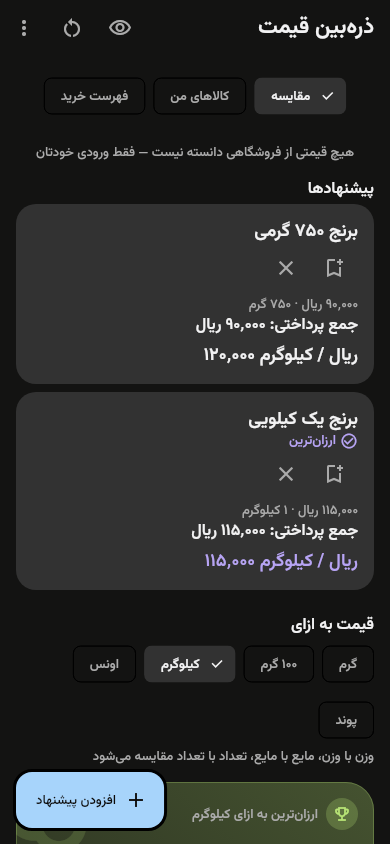
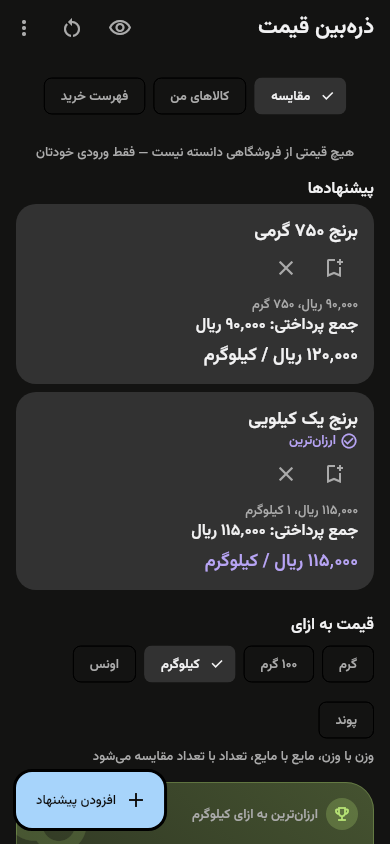
2.8.4: Price Lens reviewed and available; release notes and guide for Words, Expenses and Price Lens
Price Lens: the unit price follows the page direction, Persian decimals use
٫ and facts on one line are joined with ، in Persian; off the summary
pending list. Every add-on is now available; tests that needed a Soon one
use an unshipped id or the desktop override.

Claude-Session: https://claude.ai/code/session_01Hj5WohDj1r2cz24gKXJdh2

diff --git a/apps/client/lib/modules/price_lens/strings_fa.dart b/apps/client/lib/modules/price_lens/strings_fa.dart
@@ -95,7 +95,7 @@ const _lensfa = <String, String>{
   'commonUnitLabel': 'قیمت به ازای',
   'resultTitle': 'ارزانترین به ازای {unit}',
   'bestLabel': 'ارزانترین',
-  'unitPriceOf': '{label} · {price} به ازای {unit}',
+  'unitPriceOf': '{label}، {price} به ازای {unit}',
   'savingsVsBest': '{extra} بیشتر از ارزانترین',
   'tieNote': '{n} پیشنهاد در پایینترین قیمت برابرند',
   'notComparable': 'قابل مقایسه نیست — یکاهای متفاوت',
@@ -123,7 +123,7 @@ const _lensfa = <String, String>{
   'memoryHint':
       'فقط قیمتهایی که خودتان با تاریخشان وارد کردهاید — نه نرخ بازار',
   'saveToMemory': 'یاد این قیمت باش',
-  'memoryOf': '{label} · {price} در {date}',
+  'memoryOf': '{label}، {price} در {date}',
   'memorySame': 'برای همین، در {date} مبلغ {price} وارد کردهاید',
   'memoryHigher': 'الان {diff} بیشتر از چیزی است که در {date} وارد کردید',
   'memoryLower': 'الان {diff} کمتر از چیزی است که در {date} وارد کردید',
@@ -140,7 +140,7 @@ const _lensfa = <String, String>{
   'deleteSavedTitle': 'این مقایسه حذف شود؟',
   'savedDeleteBody': 'به ماشینحساب و حافظهی قیمت کاری ندارد.',
   'savedDeleted': 'حذف شد',
-  'comparisonOf': '{n} پیشنهاد · {date}',
+  'comparisonOf': '{n} پیشنهاد، {date}',
   'replaceOffersTitle': 'پیشنهادهای فعلی جایگزین شوند؟',
   'replaceOffersBody':
       'پیشنهادهای ماشینحساب با این مقایسهی ذخیرهشده جایگزین میشوند.',

diff --git a/apps/client/test/module_preview_test.dart b/apps/client/test/module_preview_test.dart
@@ -24,7 +24,7 @@ void main() {
   );
   tearDown(() => harness.dispose());
 
-  test('fifteen add-ons are back, the other one is Soon; their code '
+  test('all sixteen add-ons are available since 2.8.4; their code '
       'stays', () {
     // Cycle; Pause, which is first-party; and the add-ons reviewed and turned
     // on since 2.4.0 — five more of them in 2.8.1.
@@ -45,11 +45,12 @@ void main() {
       'cheques',
       'maintenance',
       'expenses',
+      'price_lens',
     };
     expect(nexAvailableModuleIds, {'cycle', 'pause', ...back});
     expect(reviewed, back);
     expect(paused, moduleIds.difference(back));
-    // The existing add-ons plus the new Cheques module, still Soon.
+    expect(paused, isEmpty);
     expect(
       moduleIds,
       containsAll(['prompt_studio', 'security_tools', 'cheques']),
@@ -60,12 +61,13 @@ void main() {
   test(
     'a paused add-on keeps its installation choice and is not active',
     () async {
-      await harness.preferences.setModuleOn('price_lens', true);
-      expect(harness.preferences.isModuleOn('price_lens'), isTrue);
+      // No add-on is Soon since 2.8.4: one a later build has not shipped.
+      await harness.preferences.setModuleOn('future_module', true);
+      expect(harness.preferences.isModuleOn('future_module'), isTrue);
       expect(nexModulesOn(harness.preferences), isEmpty);
       final reloaded = await NexPreferences.load();
       addTearDown(reloaded.dispose);
-      expect(reloaded.isModuleOn('price_lens'), isTrue);
+      expect(reloaded.isModuleOn('future_module'), isTrue);
     },
   );
 

diff --git a/apps/client/test/module_infrastructure_test.dart b/apps/client/test/module_infrastructure_test.dart
@@ -1,3 +1,4 @@
+import 'package:flutter/foundation.dart';
 import 'package:flutter/material.dart';
 import 'package:flutter_test/flutter_test.dart';
 import 'package:nex_client/modules/habits/module.dart';
@@ -30,20 +31,23 @@ void main() {
     test('active means available and added, and nothing else does', () async {
       final prefs = harness.preferences;
       expect(nexModuleActive('habits', prefs), isFalse);
-      expect(
-        nexModuleActive('price_lens', prefs),
-        isFalse,
-        reason: 'still Soon',
-      );
       expect(nexModuleActive('no-such-module', prefs), isFalse);
       await prefs.setModuleOn('habits', true);
-      await prefs.setModuleOn('price_lens', true);
+      await prefs.setModuleOn('no-such-module', true);
       expect(nexModuleActive('habits', prefs), isTrue);
-      expect(
-        nexModuleActive('price_lens', prefs),
-        isFalse,
-        reason: 'a saved choice is not availability',
-      );
+      expect(nexModuleActive('no-such-module', prefs), isFalse);
+      // Every add-on is available on a phone since 2.8.4; a desktop has
+      // none, so there a saved choice is still not availability.
+      debugDefaultTargetPlatformOverride = TargetPlatform.linux;
+      try {
+        expect(
+          nexModuleActive('habits', prefs),
+          isFalse,
+          reason: 'a saved choice is not availability',
+        );
+      } finally {
+        debugDefaultTargetPlatformOverride = null;
+      }
     });
   });
 

diff --git a/apps/client/lib/modules/price_lens/lens_widgets.dart b/apps/client/lib/modules/price_lens/lens_widgets.dart
@@ -8,6 +8,7 @@ import 'money_render.dart';
 import 'money.dart' show persianLocal;
 import 'privacy.dart';
 import 'options.dart';
+import 'price_lens_common.dart' show lensSep;
 import 'rational.dart';
 import 'strings.dart';
 import 'units.dart';
@@ -157,7 +158,7 @@ class LensOptionCard extends StatelessWidget {
                           Fraction(option.shippingMinor!),
                           option.currency,
                         ),
-                    ].join(' · '),
+                    ].join(lensSep(context)),
                     style: theme.textTheme.bodySmall?.copyWith(
                       color: scheme.onSurfaceVariant,
                     ),
@@ -178,7 +179,6 @@ class LensOptionCard extends StatelessWidget {
                     const SizedBox(height: NexSpacing.sm),
                     Text(
                       '${lensMoney(context, unitPrice, option.currency)}${commonUnitKey == null ? '' : ' / ${unitWordOf(context, commonUnitKey!)}'}',
-                      textDirection: TextDirection.ltr,
                       style: theme.textTheme.titleMedium?.copyWith(
                         color: (result?.isBest ?? false)
                             ? hue

diff --git a/apps/client/lib/modules/price_lens/product_actions.dart b/apps/client/lib/modules/price_lens/product_actions.dart
@@ -27,8 +27,12 @@ String memoryQuantity(
     priceUnitOf(m.unitKey)!,
     unit,
   )!;
-  final raw = amount.toDecimalString(digits: 6);
-  return '${nexDigits(raw, persian: NexModuleStrings.persian(context))} ${priceLensStrings(context, 'unit${unit.key[0].toUpperCase()}${unit.key.substring(1)}')}';
+  final persian = NexModuleStrings.persian(context);
+  // «۰٫۷۵ کیلوگرم» in Persian, the decimal separator included (2.8.4).
+  final raw = amount
+      .toDecimalString(digits: 6)
+      .replaceAll('.', persian ? '٫' : '.');
+  return '${nexDigits(raw, persian: persian)} ${priceLensStrings(context, 'unit${unit.key[0].toUpperCase()}${unit.key.substring(1)}')}';
 }
 
 String memoryChangeLabel(
@@ -162,7 +166,7 @@ String productShareText(BuildContext context, LensProduct product) {
         lensMoney(context, m.exactPaid, m.currency),
         memoryQuantity(context, m),
         if (m.shop.isNotEmpty) m.shop,
-      ].join(' · '),
+      ].join(lensSep(context)),
     s(context, 'estimateOnly'),
   ].join('\n');
 }

diff --git a/apps/client/lib/modules/price_lens/lens_result_panel.dart b/apps/client/lib/modules/price_lens/lens_result_panel.dart
@@ -164,7 +164,7 @@ class LensResultPanel extends StatelessWidget {
         if (result.unitPriceMinor case final price?)
           '${result.isBest ? '✓ ' : '• '}${s(context, 'unitPriceOf', {'label': result.option.label, 'price': lensMoney(context, price, result.option.currency), 'unit': unitWord})}'
         else
-          '• ${result.option.label} · ${s(context, 'notComparable')}',
+          '• ${result.option.label}${lensSep(context)}${s(context, 'notComparable')}',
     ];
     return lines.join('\n');
   }
@@ -221,7 +221,7 @@ class _ResultRow extends StatelessWidget {
       return Padding(
         padding: const EdgeInsets.symmetric(vertical: NexSpacing.xs),
         child: Text(
-          '${result.option.label} · ${s(context, 'notComparable')}',
+          '${result.option.label}${lensSep(context)}${s(context, 'notComparable')}',
           style: theme.textTheme.bodyMedium,
         ),
       );

diff --git a/apps/client/test/modules/price_lens/screen_cases_2.dart b/apps/client/test/modules/price_lens/screen_cases_2.dart
@@ -309,8 +309,8 @@ void _screenCases2() {
       );
       await addOption(tester, label: 'برنج درشت', price: '115', quantity: '1');
       expect(find.text('ارزانترین به ازای کیلوگرم'), findsOneWidget);
-      expect(find.text('برنج · ۱۲۰ ریال به ازای کیلوگرم'), findsOneWidget);
-      expect(find.text('برنج درشت · ۱۱۵ ریال به ازای کیلوگرم'), findsOneWidget);
+      expect(find.text('برنج، ۱۲۰ ریال به ازای کیلوگرم'), findsOneWidget);
+      expect(find.text('برنج درشت، ۱۱۵ ریال به ازای کیلوگرم'), findsOneWidget);
       expect(find.text('۵ ریال بیشتر از ارزانترین'), findsOneWidget);
       expect(find.text('ارزانترین'), findsOneWidget);
     });

diff --git a/apps/client/lib/modules/price_lens/money.dart b/apps/client/lib/modules/price_lens/money.dart
@@ -128,7 +128,7 @@ String formatPriceNumber(int minor, int exponent, {required bool persian}) {
         .replaceAll(RegExp(r'0+$'), '');
     text = fraction.isEmpty
         ? whole
-        : '$whole.${persian ? persianLocal(fraction) : fraction}';
+        : '$whole${persian ? '٫${persianLocal(fraction)}' : '.$fraction'}';
   }
   return negative ? '−$text' : text;
 }
@@ -159,7 +159,9 @@ String groupLocal(String digits, bool persian) {
   return persian ? persianLocal(reversed) : reversed;
 }
 
-String persianLocal(String text) => nexDigits(text, persian: true);
+/// Persian digits, and the Persian decimal separator «٫» (2.8.4).
+String persianLocal(String text) =>
+    nexDigits(text, persian: true).replaceAll('.', '٫');
 
 Map<String, Object?> priceMetadata(String code) => {
   'currency_code': code,

diff --git a/apps/client/lib/modules/price_lens/price_lens_common.dart b/apps/client/lib/modules/price_lens/price_lens_common.dart
@@ -202,6 +202,12 @@ Future<void> confirmPriceLensDiscard(BuildContext context) async {
 
 /// "2026/10/13" — "1405/07/20" where the app is set to Jalali — in the
 /// locale's own digits, through the shared label.
+/// What sits between two facts on one line: «،» in Persian, where a
+/// middle dot beside a number reads as the Persian zero («۱ · کیلو» looked
+/// like «۱۰») (2.8.4), and « · » in English.
+String lensSep(BuildContext context) =>
+    NexModuleStrings.persian(context) ? '، ' : ' · ';
+
 String lensFullDate(BuildContext context, DateTime date) =>
     NexModuleStrings.persian(context)
     ? nexReadableDate(date, solar: true, persian: true)

diff --git a/apps/client/lib/modules/price_lens/product_pages.dart b/apps/client/lib/modules/price_lens/product_pages.dart
@@ -203,7 +203,7 @@ class _LensProductsPageState extends State<LensProductsPage> {
                           style: Theme.of(context).textTheme.titleLarge,
                         ),
                         Text(
-                          '${memoryQuantity(context, latest)} · ${lensFullDate(context, latest.date)}',
+                          '${memoryQuantity(context, latest)}${lensSep(context)}${lensFullDate(context, latest.date)}',
                         ),
                         if (latest.shop.isNotEmpty)
                           NexTextDirection(

diff --git a/apps/client/lib/modules/price_lens/product_detail.dart b/apps/client/lib/modules/price_lens/product_detail.dart
@@ -97,7 +97,7 @@ class _LensProductPageState extends State<LensProductPage> {
                       latest.currency,
                     ),
                     caption:
-                        '${memoryQuantity(context, latest)} · ${lensFullDate(context, latest.date)}',
+                        '${memoryQuantity(context, latest)}${lensSep(context)}${lensFullDate(context, latest.date)}',
                   ),
                   const SizedBox(height: NexSpacing.md),
                   NexPanel(

diff --git a/apps/client/test/onboarding_test.dart b/apps/client/test/onboarding_test.dart
@@ -396,10 +396,10 @@ void main() {
     await tester.pumpAndSettle();
     expect(preferences.isModuleOn('habits'), isTrue);
     expect(tester.widget<FilterChip>(habits).selected, isTrue);
-    // A tool that is not available yet is not offered.
+    // Every add-on available on a phone is offered (2.8.4: all of them).
     expect(
       find.byKey(const ValueKey('onboarding-module-price_lens')),
-      findsNothing,
+      findsOneWidget,
     );
   });
 }
